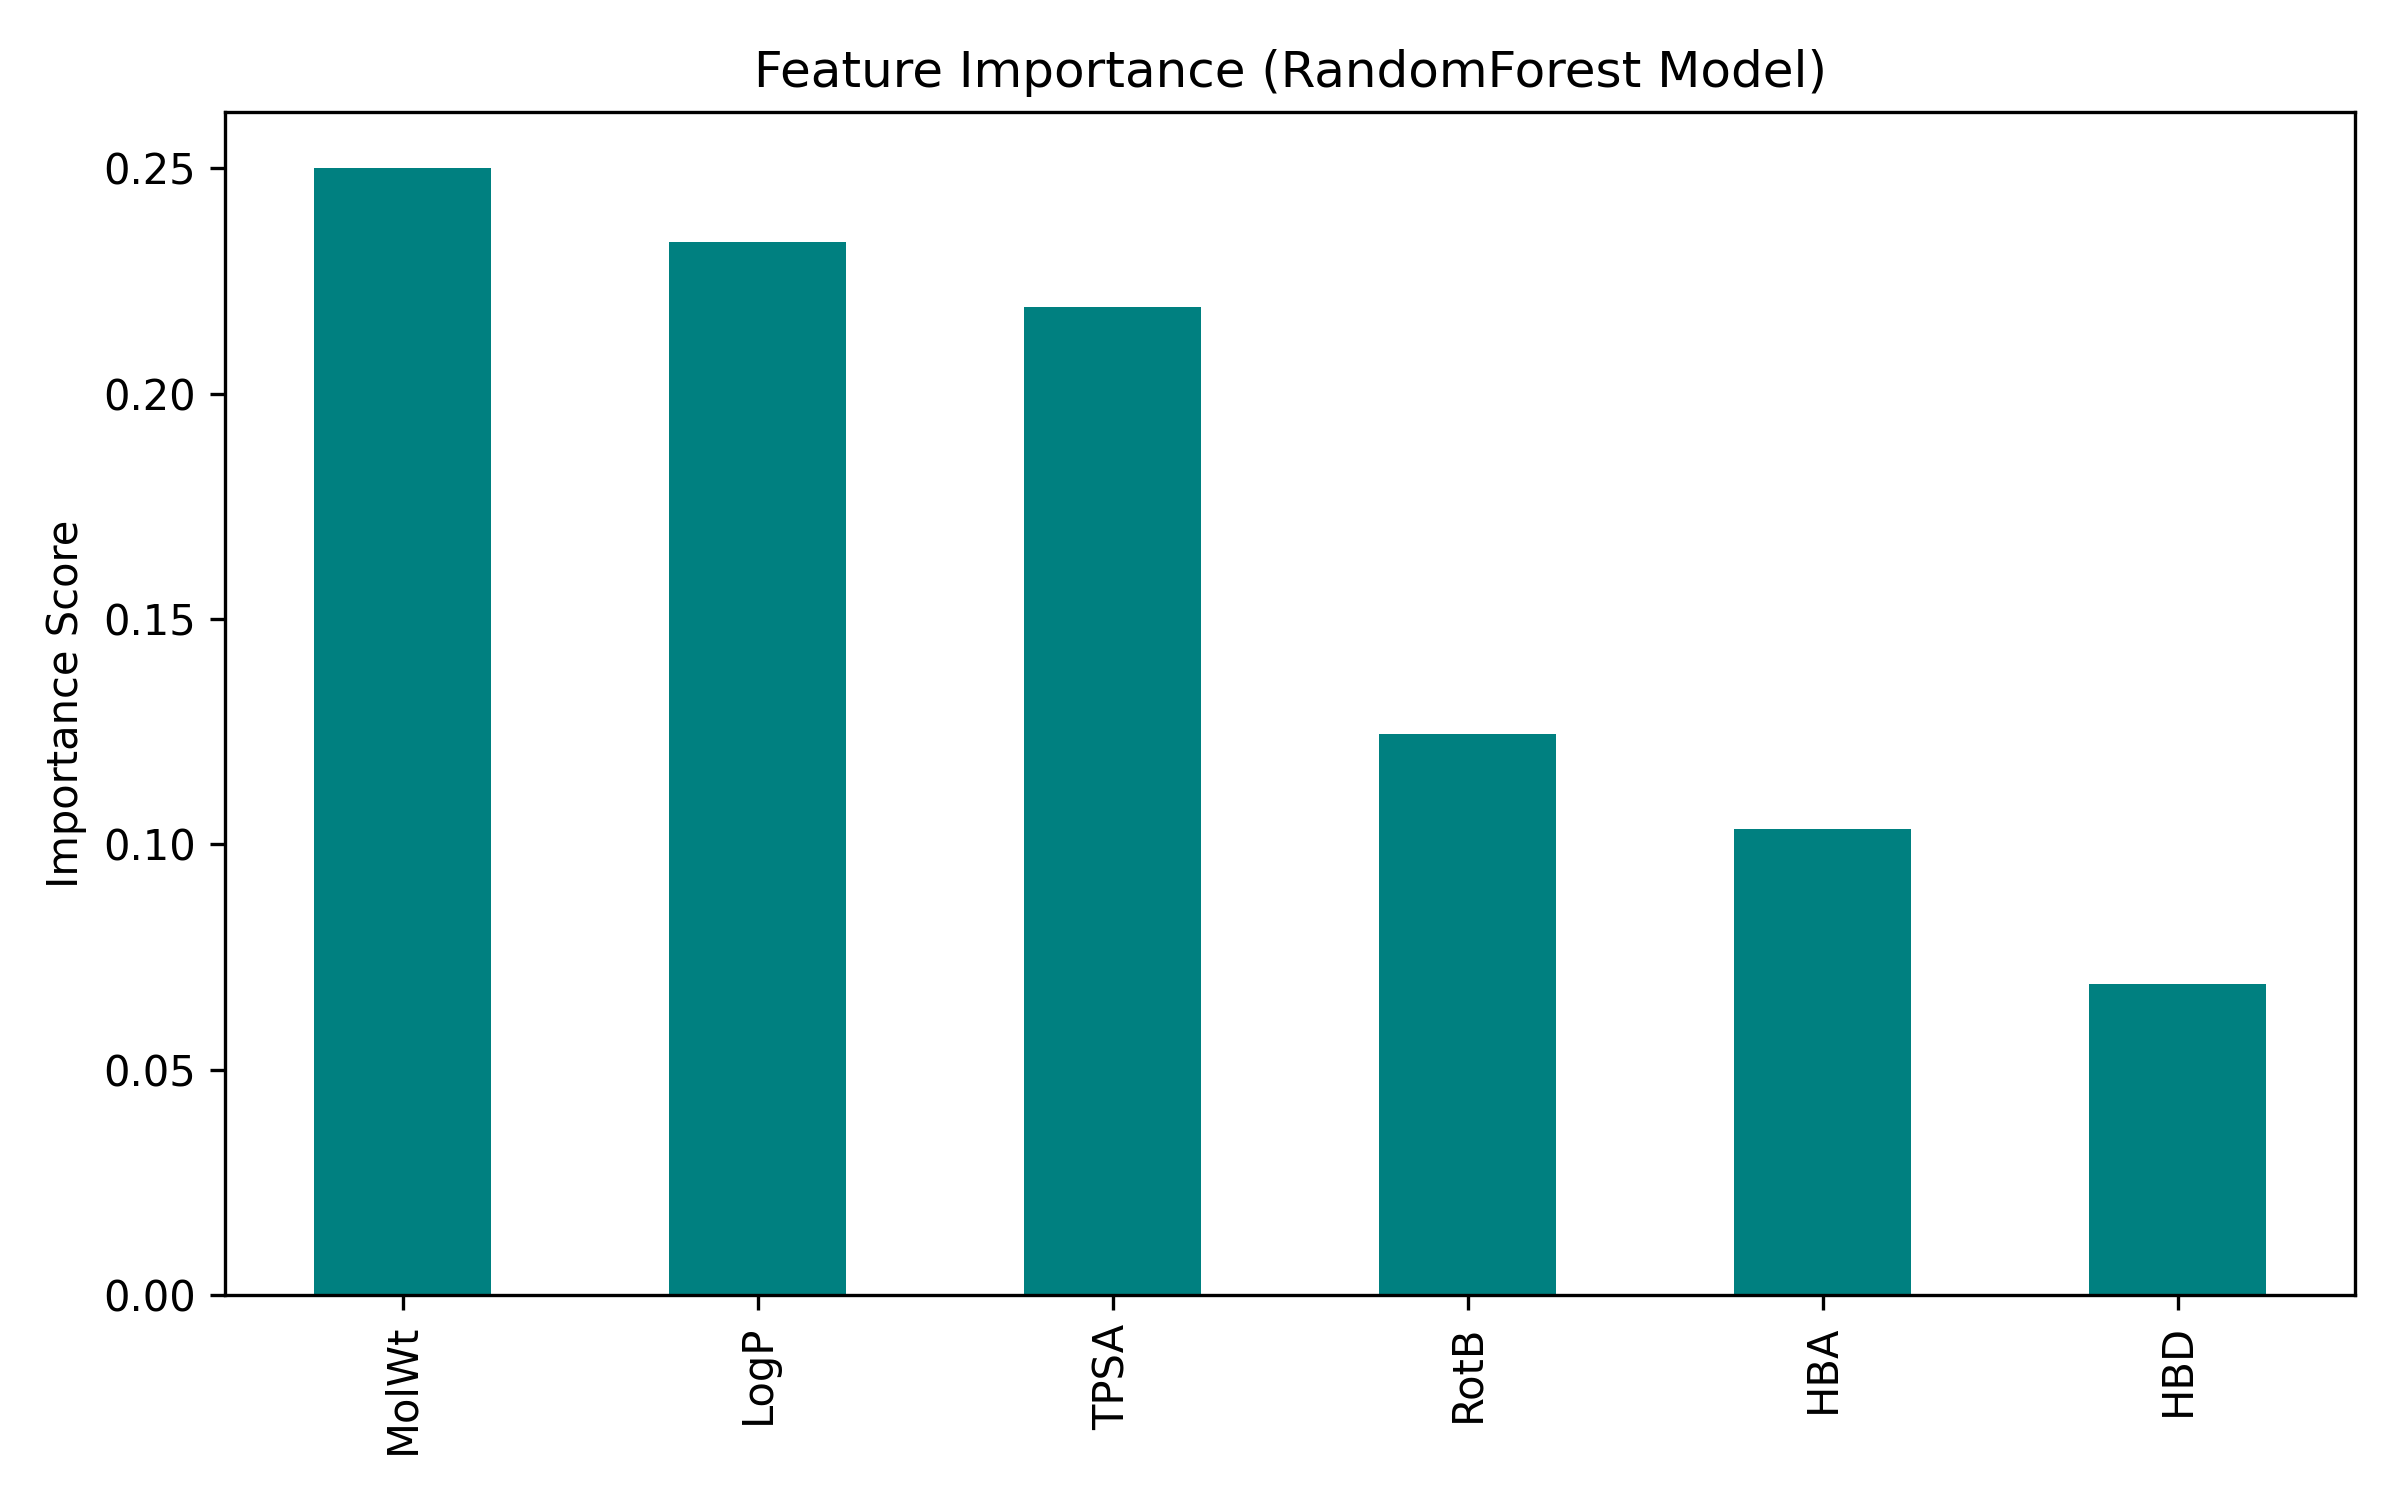
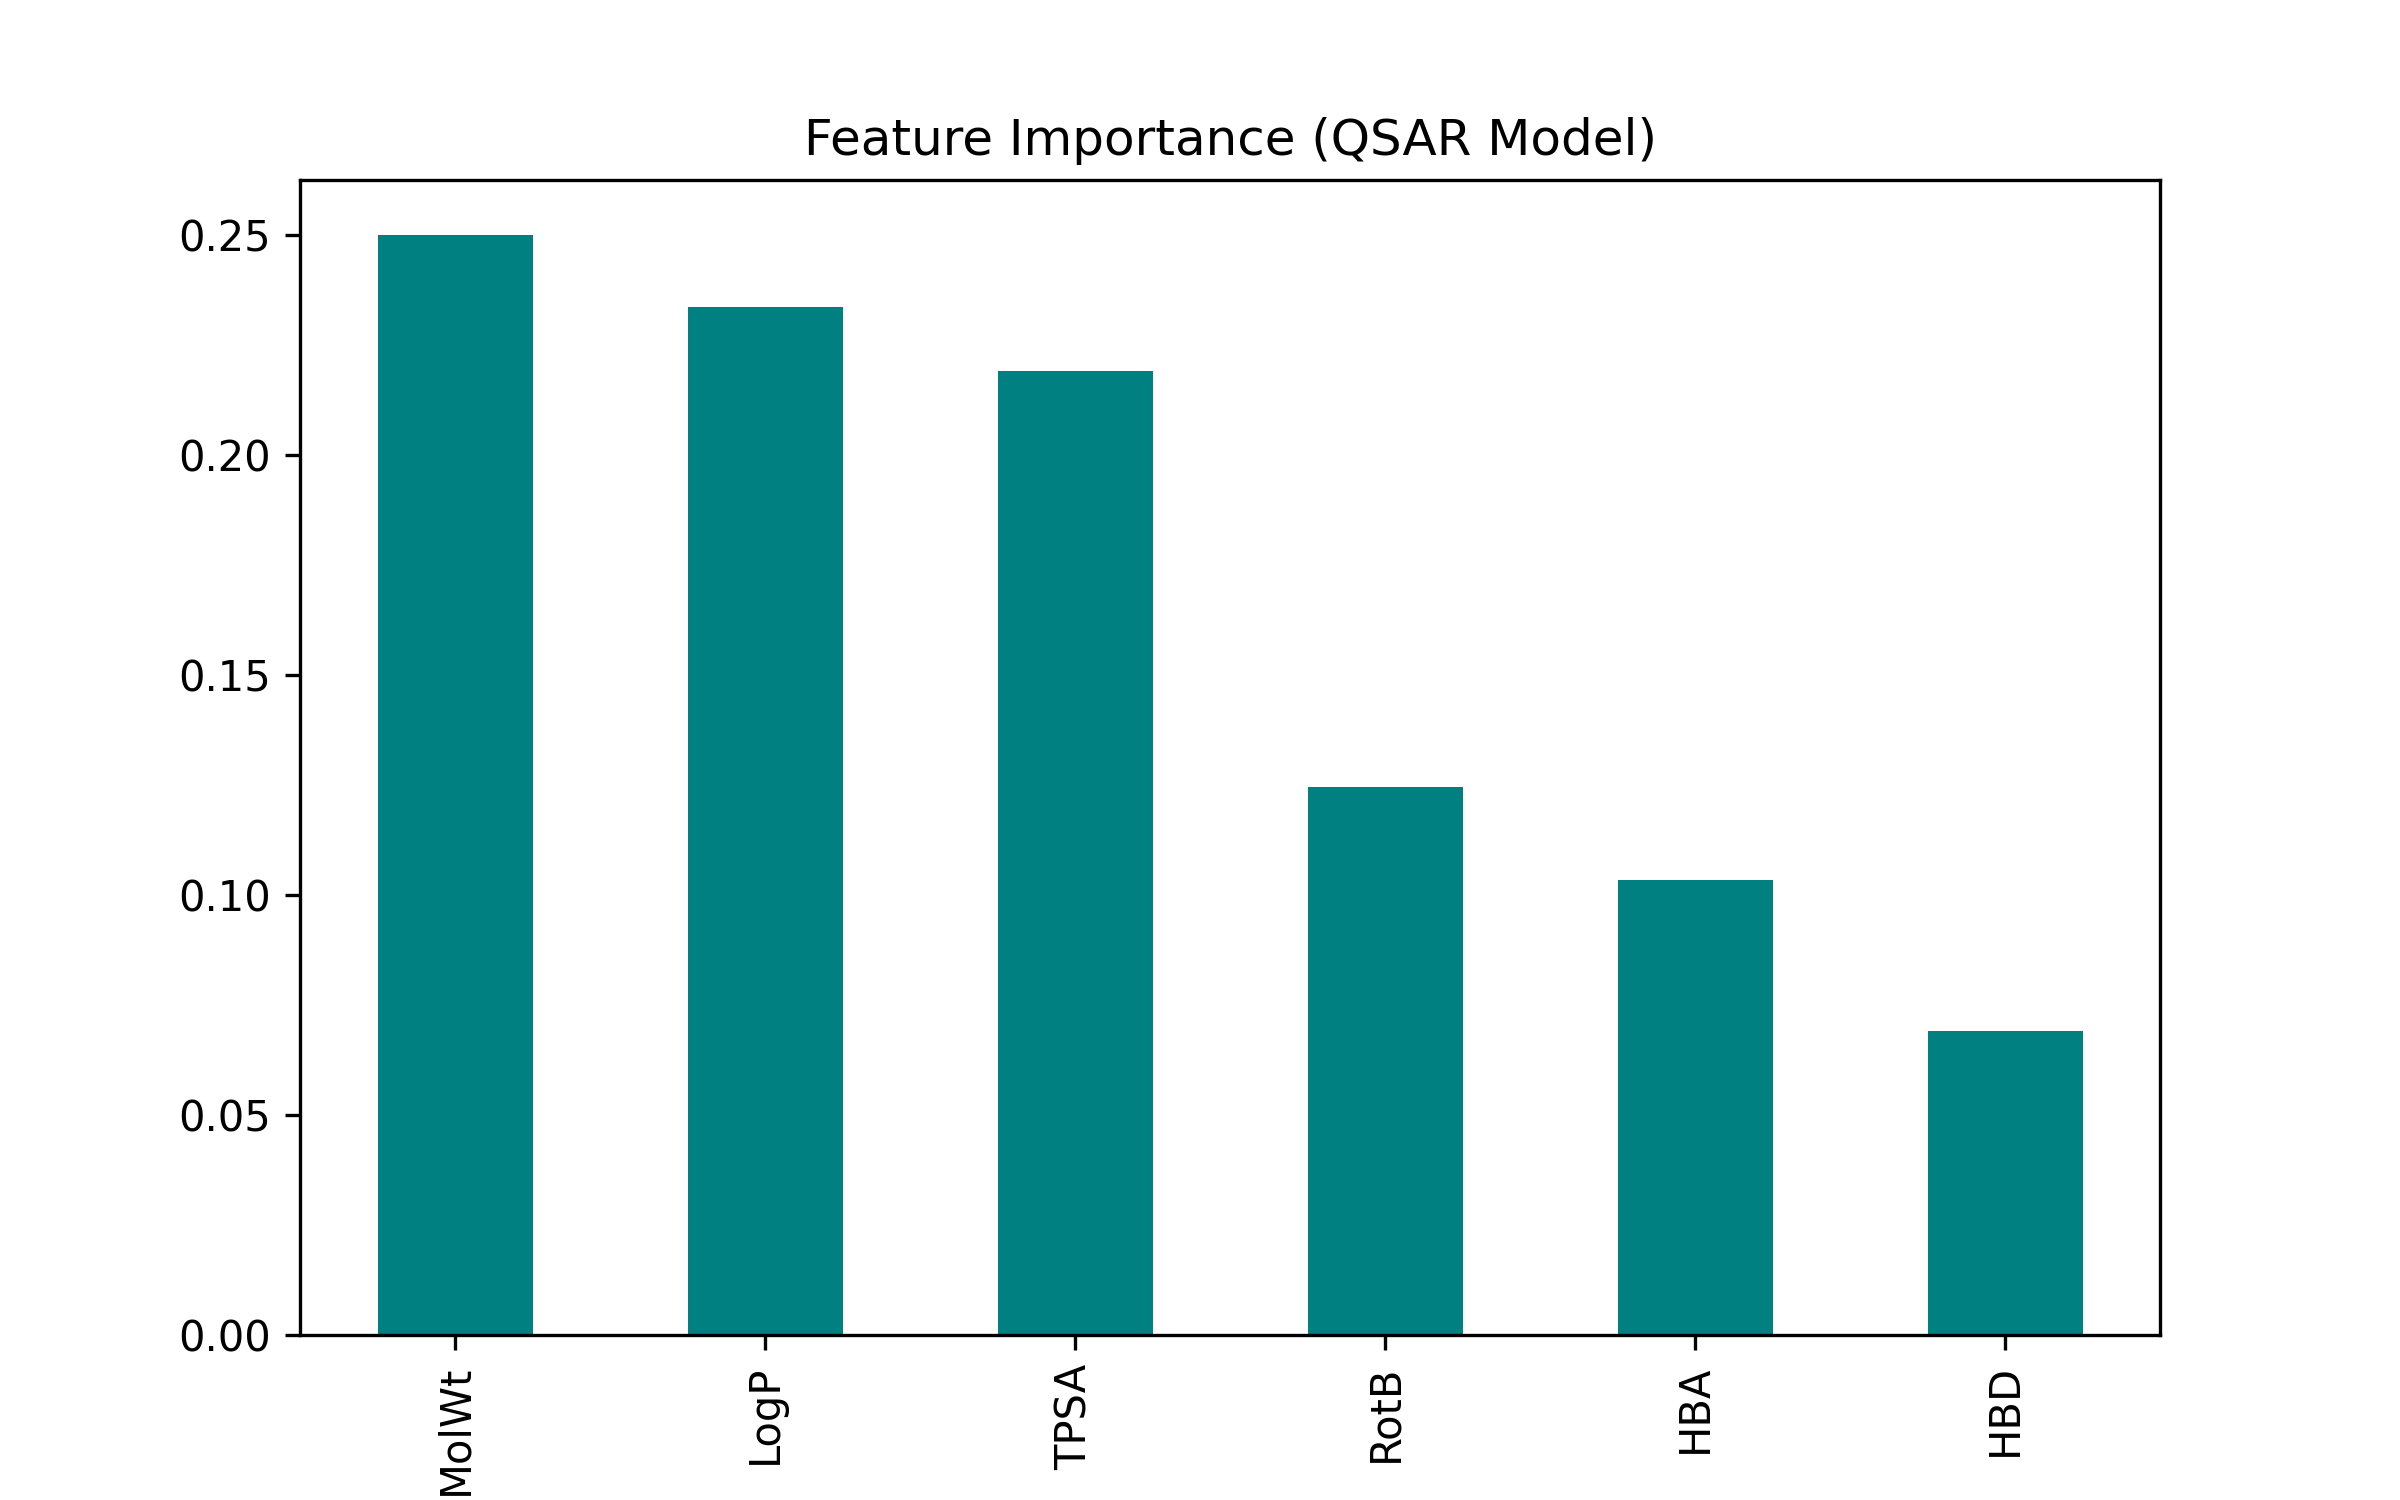
Enhance Task 6: Added Molecule Names to Hit Prioritization output

Changed region(s): [[0.0, 0.0307, 0.9688, 0.9813], [0.0312, 0.2453, 0.0938, 0.276], [0.0312, 0.092, 0.0938, 0.1227]]

diff --git a/task6/code_6/code_6.py b/task6/code_6/code_6.py
@@ -16,7 +16,6 @@ base_dir = os.path.dirname(os.path.abspath(__file__))
 INPUT_DIR = os.path.join(base_dir, "..", "task6_input")
 OUTPUT_DIR = os.path.join(base_dir, "..", "output_6")
 
-# Create output_6 directory if it doesn't exist
 if not os.path.exists(OUTPUT_DIR):
     os.makedirs(OUTPUT_DIR, exist_ok=True)
 
@@ -25,7 +24,6 @@ if not os.path.exists(OUTPUT_DIR):
 # =====================================================
 input_file = os.path.join(INPUT_DIR, "chembl_dataset.tsv")
 
-# FIXED: Added encoding="latin1" to nullify UnicodeDecodeError
 df_raw = pd.read_csv(
     input_file,
     sep="\t",
@@ -37,23 +35,35 @@ df_raw = pd.read_csv(
 print(f"Raw dataset loaded. Shape: {df_raw.shape}")
 
 # =====================================================
-# 2. FILTER & STANDARDIZE ACTIVITY
+# 2. FILTER & STANDARDIZE ACTIVITY (Including Names)
 # =====================================================
-# Ensure we only work with columns that exist in the ChEMBL export
+# Keeping Molecule Name and ID columns
 df_activity = df_raw[
     (df_raw["Standard Type"].isin(["IC50", "Ki", "Kd"])) &
     (df_raw["Smiles"].notna()) &
     (df_raw["Standard Value"].notna())
 ].copy()
 
-qsar_df = df_activity[["Smiles", "Standard Value", "Standard Units"]].copy()
+# Select SMILES, Activity, and Identity columns
+cols = ["Smiles", "Standard Value", "Standard Units", "Molecule Name", "Molecule ChEMBL ID"]
+qsar_df = df_activity[cols].copy()
 qsar_df.rename(columns={"Smiles": "SMILES"}, inplace=True)
 qsar_df["Activity_nM"] = pd.to_numeric(qsar_df["Standard Value"], errors="coerce")
-qsar_df = qsar_df.dropna()
+qsar_df = qsar_df.dropna(subset=["Activity_nM"])
 
-# Convert nM to pActivity (-log10 M)
+# Convert nM to pActivity
 qsar_df["pActivity"] = -np.log10(qsar_df["Activity_nM"] * 1e-9)
-qsar_df = qsar_df.groupby("SMILES", as_index=False)["pActivity"].mean()
+
+# Group by SMILES but keep the Names/IDs
+# We use 'first' to keep the name associated with that structure
+qsar_df = qsar_df.groupby("SMILES", as_index=False).agg({
+    "pActivity": "mean",
+    "Molecule Name": "first",
+    "Molecule ChEMBL ID": "first"
+})
+
+# Fill empty names with ChEMBL IDs so the column isn't blank
+qsar_df["Molecule Name"] = qsar_df["Molecule Name"].fillna(qsar_df["Molecule ChEMBL ID"])
 
 # =====================================================
 # 3. RDKit DESCRIPTOR GENERATION
@@ -89,41 +99,37 @@ X_train, X_test, y_train, y_test = train_test_split(
 )
 
 models = {
-    "LogisticRegression": LogisticRegression(max_iter=1000),
     "RandomForest": RandomForestClassifier(n_estimators=300, random_state=42),
     "GradientBoosting": GradientBoostingClassifier(random_state=42)
 }
 
-results = []
-for name, model in models.items():
-    model.fit(X_train, y_train)
-    prob = model.predict_proba(X_test)[:, 1]
-    auc = roc_auc_score(y_test, prob)
-    results.append([name, auc])
-
-results_df = pd.DataFrame(results, columns=["Model", "ROC_AUC"])
-best_model_name = results_df.sort_values("ROC_AUC", ascending=False).iloc[0]["Model"]
-best_model = models[best_model_name]
+# Training the best model (Random Forest is usually best for QSAR)
+best_model = models["RandomForest"]
 best_model.fit(desc_df, qsar_df["Class"])
 
 # =====================================================
-# 5. OUTPUTS & VISUALIZATION
+# 5. OUTPUTS & VISUALIZATION (With Names)
 # =====================================================
-# Save hit probabilities
 qsar_df["Hit_Probability"] = best_model.predict_proba(desc_df)[:, 1]
+
+# Sort by probability and keep the names in the final display
 top_hits = qsar_df.sort_values("Hit_Probability", ascending=False).head(20)
+
+# Reordering columns for better CSV readability
+final_cols = ["Molecule Name", "Molecule ChEMBL ID", "Hit_Probability", "pActivity", "SMILES"]
+top_hits = top_hits[final_cols]
+
 top_hits.to_csv(os.path.join(OUTPUT_DIR, "Top_AI_Prioritized_Hits.csv"), index=False)
+
+print("\nTOP 5 PRIORITIZED HITS:")
+print(top_hits[["Molecule Name", "Hit_Probability"]].head())
 
 # Save Feature Importance Plot
 if hasattr(best_model, "feature_importances_"):
     importance = pd.Series(best_model.feature_importances_, index=descriptor_names).sort_values(ascending=False)
     plt.figure(figsize=(8,5))
     importance.plot(kind="bar", color='teal')
-    plt.title(f"Feature Importance ({best_model_name} Model)")
-    plt.ylabel("Importance Score")
-    plt.tight_layout()
+    plt.title("Feature Importance (QSAR Model)")
     plt.savefig(os.path.join(OUTPUT_DIR, "QSAR_Feature_Importance.png"), dpi=300)
-    plt.show()
 
-print(f"\nAnalysis Complete. Best Model: {best_model_name}")
-print(f"Results saved to: {OUTPUT_DIR}")
+print(f"\nAnalysis Complete. Results saved to: {OUTPUT_DIR}")
